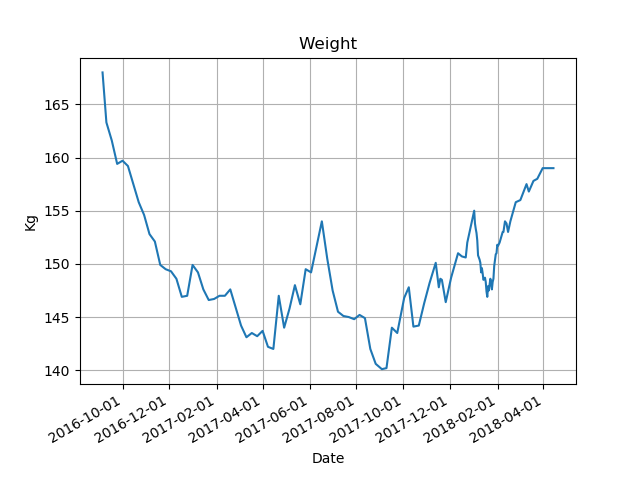
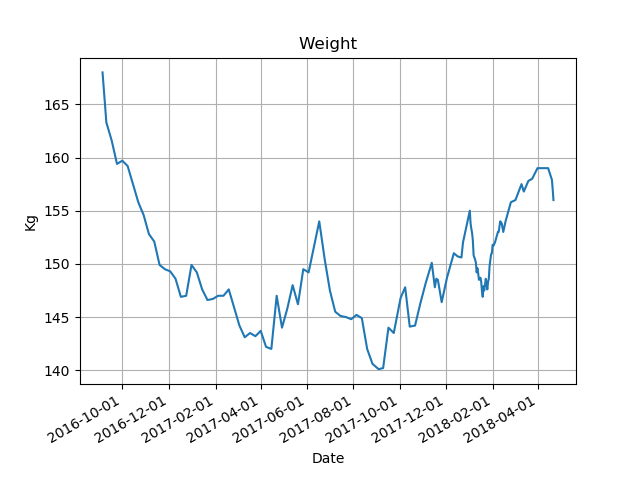
Week 16 update

diff --git a/index.html b/index.html
@@ -34,6 +34,30 @@
   </thead>
   <tbody>
     <tr>
+      <th>2018-04-21</th>
+      <td>156.0</td>
+      <td>-1.0</td>
+      <td>-12.0</td>
+      <td>46.6</td>
+      <td>1.9</td>
+    </tr>
+    <tr>
+      <th>2018-04-20</th>
+      <td>157.0</td>
+      <td>-0.9</td>
+      <td>-11.0</td>
+      <td>46.9</td>
+      <td>1.9</td>
+    </tr>
+    <tr>
+      <th>2018-04-19</th>
+      <td>157.9</td>
+      <td>-1.1</td>
+      <td>-10.1</td>
+      <td>47.1</td>
+      <td>1.9</td>
+    </tr>
+    <tr>
       <th>2018-04-14</th>
       <td>159.0</td>
       <td>0.0</td>
